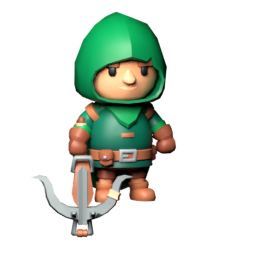
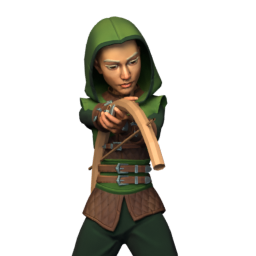
Character sheets and portraits in the new style; frame characters by the body, not a tall staff
Claude-Session: https://claude.ai/code/session_01LxpfNJDLrR1b4p9pJ7xapP

diff --git a/hearth/tools/art/characters.py b/hearth/tools/art/characters.py
@@ -230,6 +230,7 @@ def _hold(rig, name, bone="hand_r", scale=1.0):
     if name.startswith("staff"):
         # a staff stays upright in the hand whatever the arm does: it follows the hand, not its turn
         for o in roots:
+            o["held"] = True
             c = o.constraints.new("COPY_LOCATION")
             c.target = rig
             c.subtarget = bone
@@ -248,7 +249,10 @@ def _hold(rig, name, bone="hand_r", scale=1.0):
             o.rotation_euler = (math.radians(90), 0, math.radians(90 if not left else -90))
         o.scale = (scale, scale, scale)
     bpy.context.view_layer.update()
-    return [o for r in roots for o in [r] + list(r.children_recursive) if o.type == "MESH"]
+    held = [o for r in roots for o in [r] + list(r.children_recursive) if o.type == "MESH"]
+    for o in held:
+        o["held"] = True
+    return held
 
 
 def human(d):
@@ -370,7 +374,7 @@ def sheet(kind, key, anims, out, frames=FRAMES, samples=20):
     sc.collection.objects.link(pivot)
     rig.parent = pivot
     _play(rig, anims[0][1], 0.0)
-    lo, hi = _bounds(meshes)
+    lo, hi = _bounds([o for o in meshes if not o.get("held")])   # the body sets the size, not a tall staff
     height = hi.z - lo.z
     # the frame shows the character at 1/1.5 of its height, feet at 0.24 from the bottom (ArtLibrary.DrawCharacter)
     size = height * 1.5
@@ -411,7 +415,7 @@ def portrait(kind, key, out, size=256):
     rig, meshes = build(kind, key)
     anims = hero_anims(key) if kind == "hero" else (creature_anims(key) if kind == "creature" else dweller_anims(key))
     _play(rig, anims[0][1], 0.0)
-    lo, hi = _bounds(meshes)
+    lo, hi = _bounds([o for o in meshes if not o.get("held")])
     height = hi.z - lo.z
     cam = bpy.data.objects.new("cam", bpy.data.cameras.new("cam"))
     sc.collection.objects.link(cam)

diff --git a/hearth/tools/art/render_all.py b/hearth/tools/art/render_all.py
@@ -52,7 +52,10 @@ def characters(m):
 
 def rooms_(m):
     import rooms
+    only = os.environ.get("HEARTH_ONLY")
     for name in rooms.RECIPES:
+        if only and name not in only.split(","):
+            continue
         start = time.time()
         rooms.render_room(name, os.path.join(OUT, "Rooms", name + ".png"), samples=64)
         m["rooms"][name] = {"cells": 2 if name == "Hearth" else 1}
